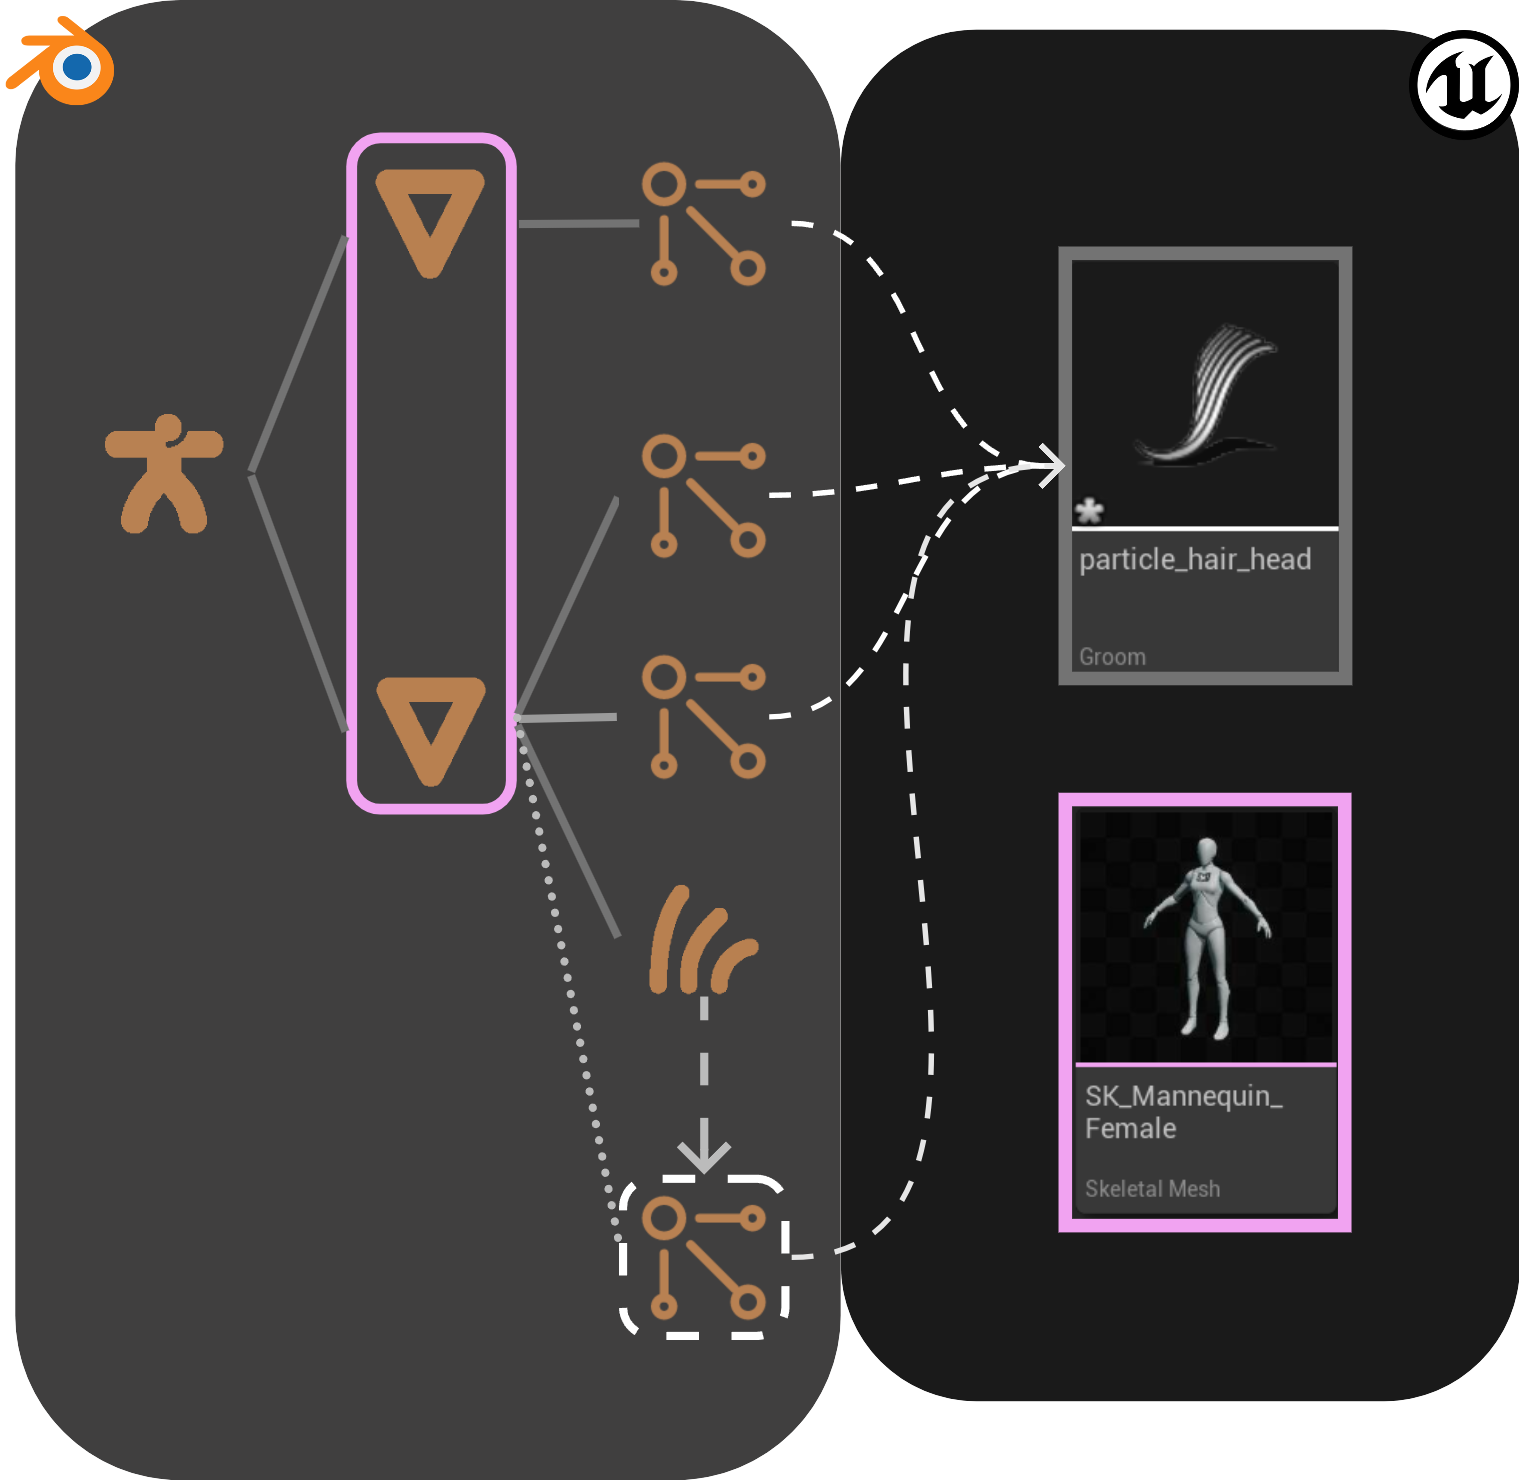
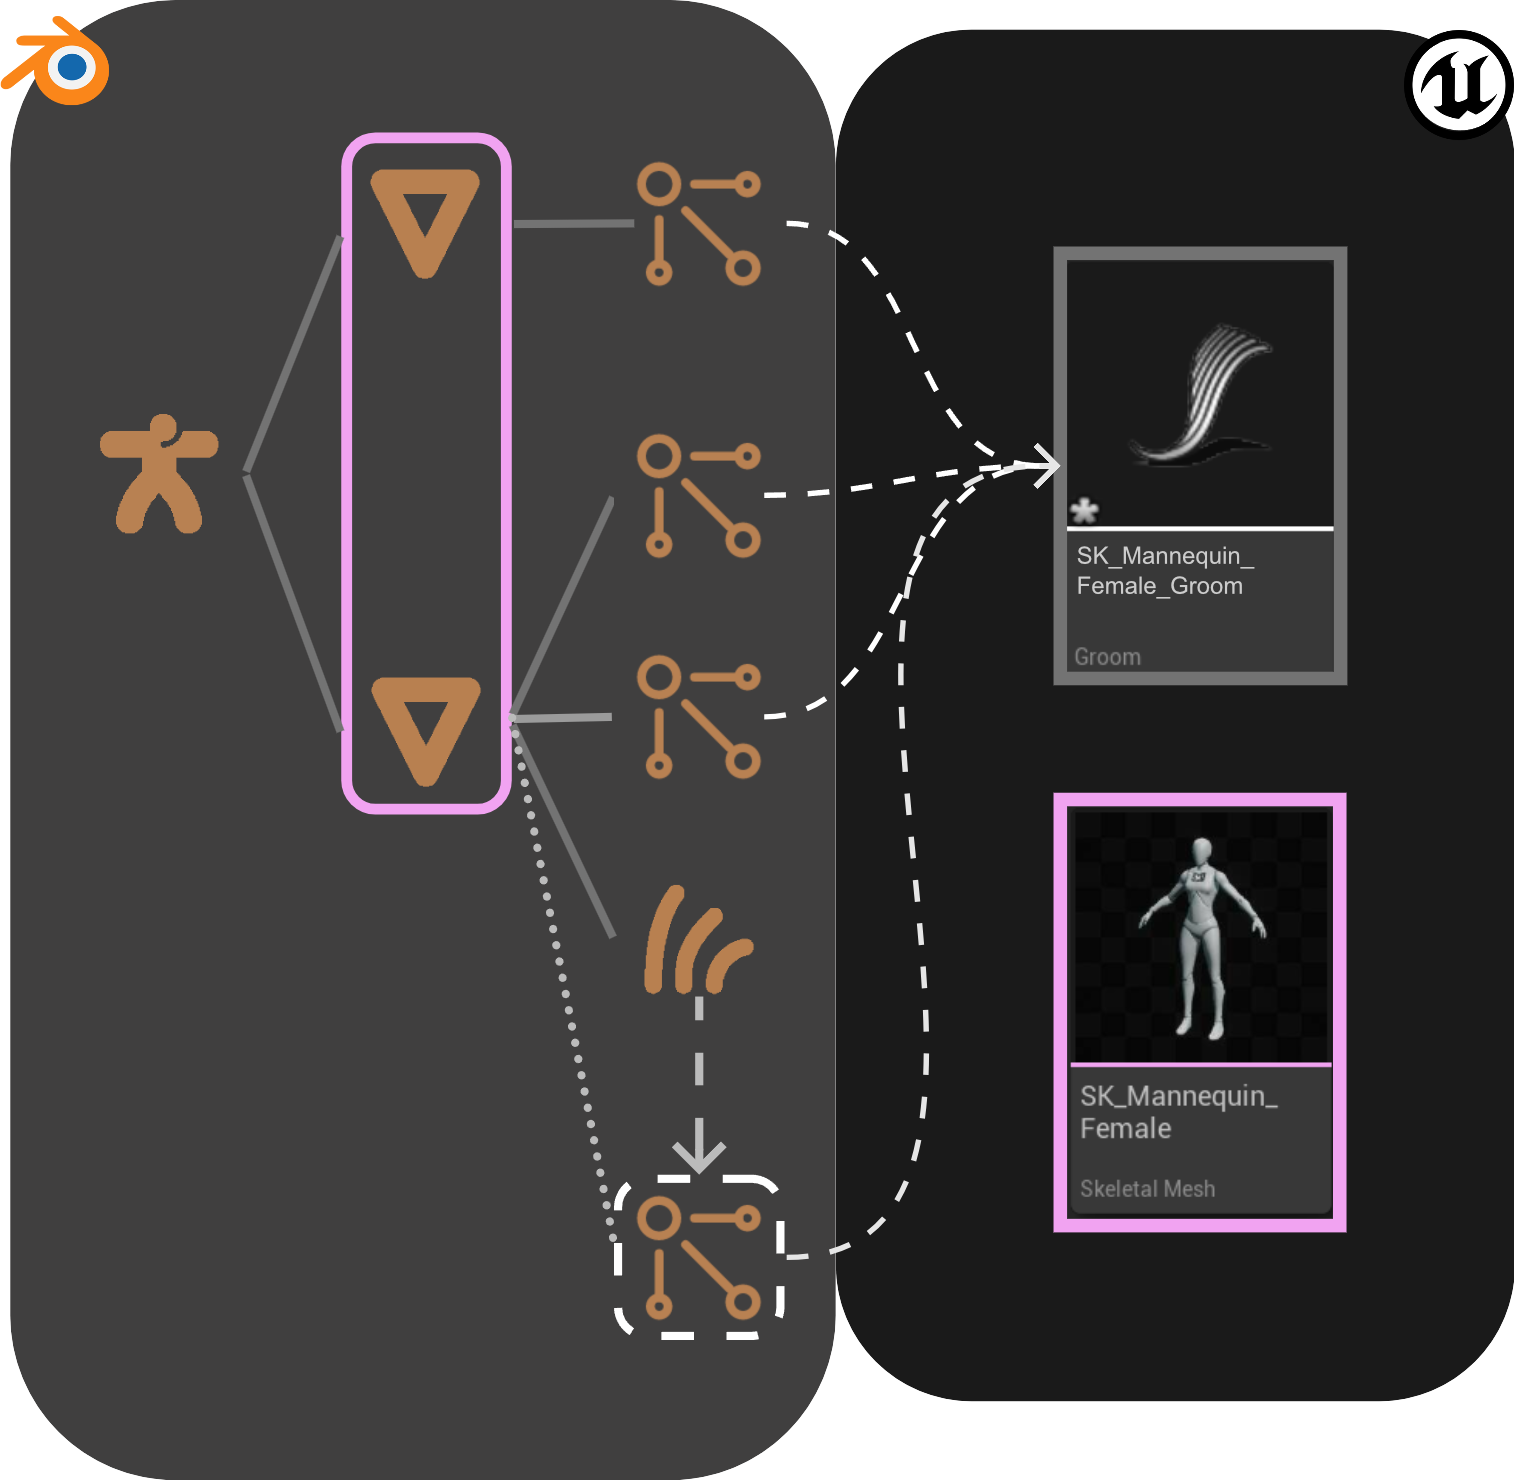
- updated groom docs - updated combine assets docs - fixed broken links

diff --git a/docs/send2ue/extensions/combine-assets.md b/docs/send2ue/extensions/combine-assets.md
@@ -1,6 +1,6 @@
 # Combine Assets
 
-The _Combine Assets_ extension provides a convenient way to combine blender objects into one unreal asset. There are 6
+The _Combine Assets_ extension provides a convenient way to combine blender objects into one unreal asset. There are 4
 options, each provides a different way to customize your export.
 
 ## Overview
@@ -8,7 +8,7 @@ options, each provides a different way to customize your export.
 
 ### Properties
 #### _off_
-This exports each object and particle system in the `Export` collection export as individual assets.
+This exports each object and particle system in the `Export` collection as individual assets.
 
 <img src="./images/combine-assets/off.png" alt="off" width="400"/>
 
@@ -28,22 +28,11 @@ For each combined mesh, all hair objects/systems surfaced on it export as a sing
 
 <img src="./images/combine-assets/groom_per_combined_mesh.png" alt="groom_per_combined_mesh" width="400"/>
 
-#### _all groom_
-This combines all hair particle systems and curves objects in the `Export` collection into a single groom asset.
-
-<img src="./images/combine-assets/all_groom.png" alt="all_groom" width="400"/>
-
-#### _all groom and child meshes_
-For each empty object or armature parent, this combines its child meshes into a single mesh when exported.
-This also combines all hair particle systems and curves objects in the Export collection into a single groom asset.
-
-<img src="./images/combine-assets/all_groom_and_child_meshes.png" alt="all_groom_and_child_meshes" width="400"/>
-
 ### UI
 The settings can be found under the `Export` tab
 
 ## Static Meshes
-For options _**child meshes**_, _**groom per combined mesh**_ and _**all groom and child meshes**_, all child meshes under an empty
+For options _**child meshes**_, and _**groom per combined mesh**_, all child meshes under an empty
 will be combined into one static mesh using the name of the empty.
 
 ![0](./images/combine-assets/0.png)
@@ -62,13 +51,13 @@ to each mesh within the combined asset.
 :::
 
 ## Skeletal Meshes
-For options _**child meshes**_, **_groom per combined mesh_** and _**all groom and child meshes**_, all child meshes under an armature
+For options _**child meshes**_, and **_groom per combined mesh_**, all child meshes under an armature
 will be combined into one skeletal mesh using the name of the first child mesh in alphanumerical order by object name
 (the default order of objects in the blender outliner).
 
 ::: tip Note
  This might not give you enough control over the skeletal mesh name, so using the
-[immediate parent name](https://github.com/EpicGames/BlenderTools/docs/send2ue/extensions/use-immediate-parent-name.html)
+[immediate parent name](https://epicgames.github.io/BlenderTools/send2ue/extensions/use-immediate-parent-name.html)
 extension can be useful.
 :::
 
@@ -77,25 +66,8 @@ extension can be useful.
 In this example the name of the combine skeletal mesh in unreal would be `SK_Mannequin_Female`
 
 ## Groom
-For the options _**off**_ and _**child meshes**_, each particle system and curves object exports as an individual alembic file.
+* For the options _**off**_ and _**child meshes**_, each particle system and curves object exports as an individual alembic file.
 The imported groom asset takes on the name of the particle system or curves object.
 
-For the option _**groom per mesh**_, all particle systems and curves objects surfaced to one mesh will be combined into
-one groom asset using the name of the first particle system in creation order (the default order of particle systems in
-the particles properties view).
-
-- In the example below the name of the combined groom asset in unreal would be `particle_hair_waist`
-
-  <img src="./images/combine-assets/4.png" alt="4" width="300"/>
-
-For the option _**groom per combined mesh**_, all particle systems of each child mesh under an armature or empty type object
-will be combined into one groom asset using the name of the combined mesh with a postfix `_Groom`
-
-- In the example below the name of the combined groom asset in unreal would be `SK_Mannequin_Female_Groom`
-
-  <img src="./images/combine-assets/5.png" alt="5" width="300"/>
-
-For the options _**all groom**_ and _**all groom and child meshes**_, all particle systems of each mesh in the `Export` collection
-will be combined into one groom asset using the name `Combined_Groom`
-
-
+* For the option _**groom per mesh**_ and _**groom per combined mesh**_, all particle systems and curves objects surfaced to one mesh
+  will be combined into one groom asset using the name of their surface mesh post fixed with `_Groom`.

diff --git a/docs/send2ue/extensions/create-post-import-groom-assets.md b/docs/send2ue/extensions/create-post-import-groom-assets.md
@@ -7,17 +7,17 @@ imported groom asset.
 ## Properties
 ### _Groom Binding Asset_
 This creates a binding asset for the imported groom asset. The target skeletal mesh is the hair's surface mesh in blender
-that is part of the same import. For this option to work correctly, the _import mesh_ option in the
-[import settings](/settings/import.html) must be turned on.
+that is part of the same import. For this option to work correctly, the _import mesh_ and _import groom_ options in the
+[import settings](https://epicgames.github.io/BlenderTools/send2ue/settings/import.html) must be turned on.
 
-The binding asset will use the name of the groom asset and the name of the target skeletal mesh connected with
-underscore, and a postfix `_Binding`. Note this is the unreal convention of naming binding assets.
+The binding asset will use the name of the groom asset and the name of the target skeletal mesh post fixed with `_Binding`.
+Note this is the unreal convention of naming binding assets.
 
 For example, a groom asset sourced from a particle system named `hair` with a surface mesh named `SK_Mannequin_Female`
 will yield a binding asset named `hair_SK_Mannequin_Female_Binding`.
 
 ::: tip Note
-A binding asset can only be created when the groom's surface mesh is a [skeletal mesh](/asset-types/skeletal-mesh.html).
+A binding asset can only be created when the groom's surface mesh is a [skeletal mesh](https://epicgames.github.io/BlenderTools/send2ue/asset-types/skeletal-mesh.html).
 :::
 
 ### _Blueprint Asset with Groom_
@@ -32,38 +32,10 @@ blueprint asset uses the name of the skeletal mesh asset with a postfix `_BP`.
   <img src="./images/create-post-import-groom-assets/2.png" alt="2" width="400"/>
 
 ::: tip Note
-Each groom component is automatically populated with a groom asset and a binding asset that connects groom to the
+Each groom component is automatically populated with a groom asset and a binding asset that connects the groom to the
 skeletal mesh in the skeletal mesh component. For this reason, the _**binding asset**_ option must be turned
 on for the _**blueprint asset with groom binding**_ option to work correctly.
 :::
 
 ## UI
 The settings can be found under the `Import` tab
-
-## Usage with _Combine Assets_
-Combined usage of the _**create post import groom assets**_ and
-[_combine assets_](https://github.com/EpicGames/BlenderTools/docs/send2ue/extensions/combine-assets.html)
-extensions is supported.
-
-**Create Groom Binding Asset**
-
-A binding asset is created for each imported groom asset.
-* When using 'child meshes' and 'grooms per combined mesh' options in _combine assets_, the binding asset's
-  target skeletal mesh is the combined mesh asset that contains the groom asset's original
-  surface mesh.
-
-* When using 'grooms per mesh' option in _combine asset_, the binding asset's
-  the target mesh is the mesh asset that grooms in the combined groom asset
-  are surfaced to in blender.
-
-**Create Blueprint Asset For Groom**
-
-A blueprint asset and associated components are created for each imported skeletal mesh
-asset. The surfacing relationship between a blender mesh and hairs is retained
-through component parenting in the blueprint asset.
-
-::: tip Note
-No binding asset or blueprint asset will be created when using _Combine Assets_ options _**all groom**_ and
-_**all groom and child meshes**_. Since these two options combine all particle systems and curves objects within
-the `Export` collection, there is no appropriate target mesh for the `Combined_Groom` to bind to.
-:::

diff --git a/docs/send2ue/asset-types/groom.md b/docs/send2ue/asset-types/groom.md
@@ -17,7 +17,7 @@ imported to unreal as a groom asset.
 ![1](./images/groom/1.png)
 
 ::: tip Combining Groom Assets
-To gain more control over how particle systems are exported, use the [_combine assets_](/extensions/combine-assets.html)
+To gain more control over how particle systems are exported, use the [_combine assets_](https://epicgames.github.io/BlenderTools/send2ue/extensions/combine-assets.html)
 extension that has options such as _combine groom for each mesh_ and more.
 :::
 
@@ -40,12 +40,12 @@ the curves object into a hair particle system on the mesh that it’s surfaced t
 
 By default, the groom asset will import along with the mesh asset that it is surfaced to. To run a strictly groom asset
 import (meaning no other asset types will be exported from blender and imported to unreal), all import options (mesh,
-animation, textures) must be turned off in your [import settings](/settings/import.html) except for `Groom`. Alternatively,
+animation, textures) must be turned off in your [import settings](https://epicgames.github.io/BlenderTools/send2ue/settings/import.html) except for `Groom`. Alternatively,
 the blender `Curves` objects can be placed in the `Export` collection (without their surface mesh objects) which
 denotes an exclusive groom workflow as well.
 
 ## Binding Assets and More
 
-The addon provides an extension called [create post import assets for groom](/extensions/create-post-import-groom-assets.html)
+The addon provides an extension called [create post import assets for groom](https://epicgames.github.io/BlenderTools/send2ue/extensions/create-post-import-groom-assets.html)
 to automatically create unreal assets (such as a binding asset) for the imported groom asset. See the extensions section
 for more information on its usage.
